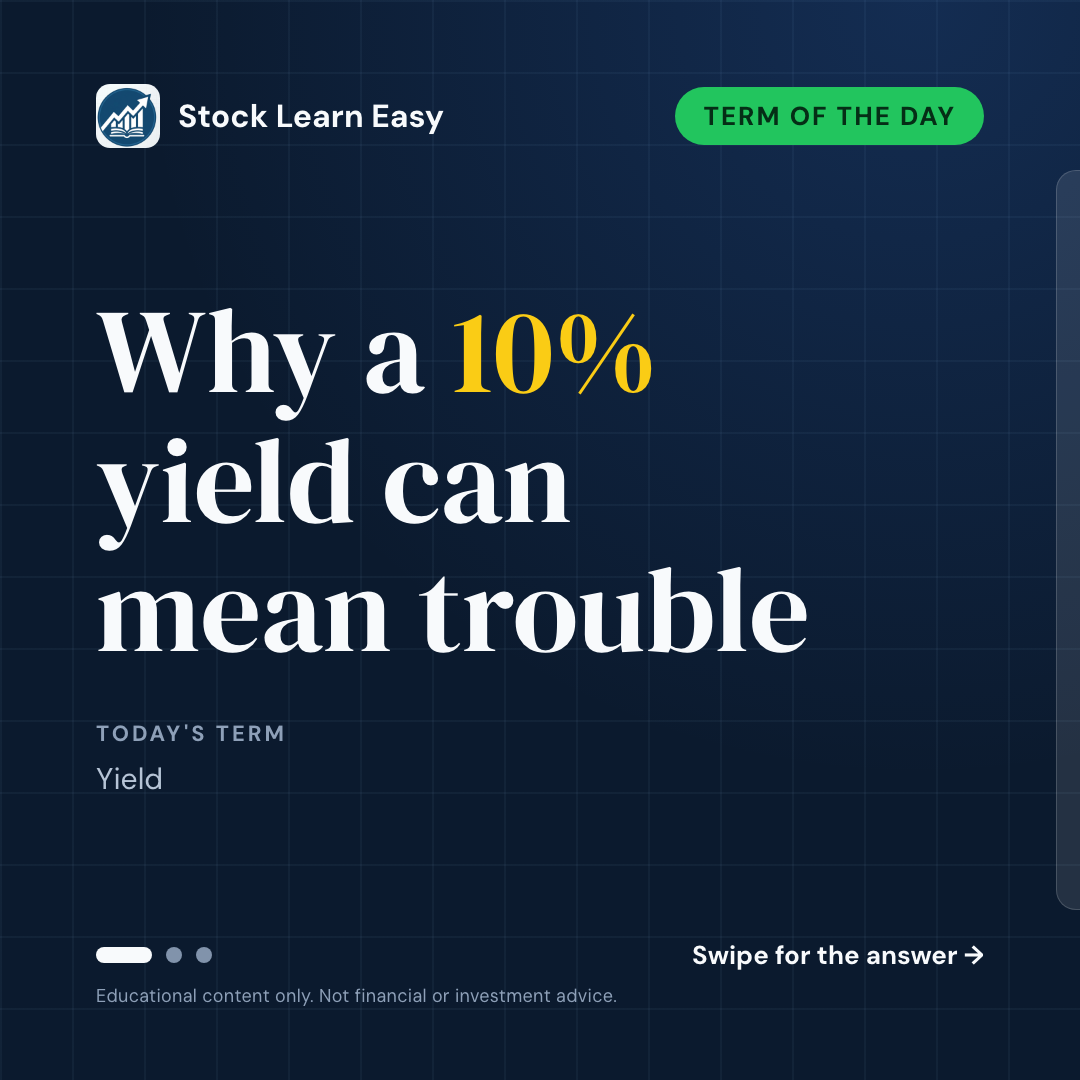
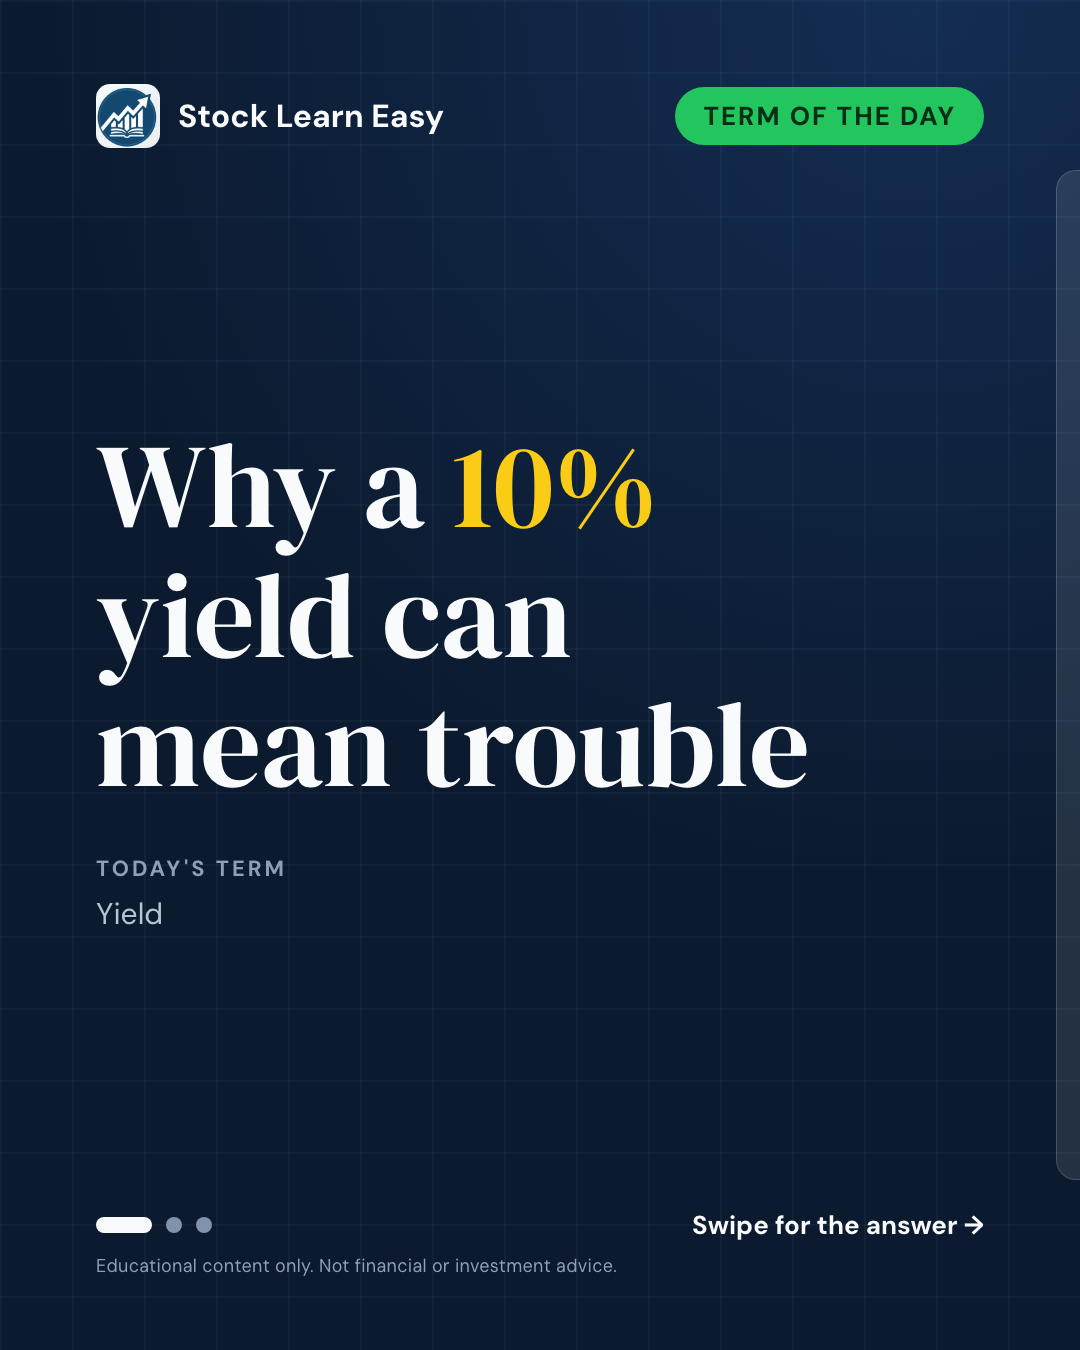
Items 55, 56, 64, 65: grid audit; reels get a hook cover and no black first frame; carousels 4:5
The first grid audit showed every news reel as a black tile (no cover set, so
Instagram took frame 0, which the fade-in made black) and every square carousel
missing its hook's first letter in the 3:4 grid crop. Queue rebuilt.

diff --git a/generate.py b/generate.py
@@ -5,7 +5,7 @@ Stock Learn Easy - Instagram post generator.
 Pulls live market news across a few categories (IPOs, big movers, macro
 news, plus an evergreen "term of the day"), writes a beginner-friendly
 English caption (Stock Learn Easy's voice, fixed disclaimer every time),
-and renders a 1080x1080 carousel via headless Chrome: hook, then a real
+and renders a 1080x1350 carousel via headless Chrome: hook, then a real
 price chart when the story has one to show, then the concept, then the
 takeaway. Tops up the `scheduled/` queue to TARGET_QUEUE_DEPTH future
 slots (2/day), rotating through categories and skipping headlines/terms
@@ -839,7 +839,13 @@ def is_reel_slot(slot):
 # where the full lesson is. Position in the carousel is a row of dots rather
 # than "2/4", and the disclaimer sits on every card.
 
-CARD_SIZE = 1080
+# 4:5 portrait since 16.10.2026, was 1080 square. The profile grid shows every
+# post as a 3:4 tile, so a square card lost 135px off each side there and the
+# first letter of every left-aligned hook went with it ("tock Split"). A 4:5
+# card loses 34px, all of it inside the side padding, and takes a quarter more
+# of the screen in the feed.
+CARD_SIZE = 1080          # width
+CARD_HEIGHT = 1350
 CARD_PADDING = "84px 96px 72px 96px"
 
 
@@ -927,7 +933,7 @@ def render_slide_html(kind, position, total, category, when_utc, copy,
         # Flat ground: the grid and the glow are part of the brand frame too.
         flat = '<style>body { background-image:none; }</style>'
         peek = design.PEEK_HTML if total > 1 else ''
-        return design.page(CARD_SIZE, CARD_SIZE, CARD_PADDING, f'{flat}{main}{foot}{peek}')
+        return design.page(CARD_SIZE, CARD_HEIGHT, CARD_PADDING, f'{flat}{main}{foot}{peek}')
 
     if kind == "hook":
         source = term[0] if category == "term" else news["title"]
@@ -1017,7 +1023,7 @@ def render_slide_html(kind, position, total, category, when_utc, copy,
         extra = design.PEEK_HTML
     elif position == total and total > 1:
         extra = design.END_CSS
-    return design.page(CARD_SIZE, CARD_SIZE, CARD_PADDING,
+    return design.page(CARD_SIZE, CARD_HEIGHT, CARD_PADDING,
                        f'{head}{main}{foot}{extra}')
 
 # Item 43. Slide one is mostly seen as a thumbnail about 150px wide, so the
@@ -1038,7 +1044,7 @@ def hook_thumb_px(html_path: Path):
     html_path = html_path.resolve()
     out = subprocess.run(
         [CHROME, "--headless", "--disable-gpu", "--virtual-time-budget=5000",
-         "--window-size=1080,1080", "--dump-dom", f"file://{html_path}"],
+         f"--window-size={CARD_SIZE},{CARD_HEIGHT}", "--dump-dom", f"file://{html_path}"],
         capture_output=True, text=True, timeout=30,
     ).stdout
     m = _FINAL_PX.search(out)
@@ -1106,7 +1112,7 @@ def render_png(html_path: Path, png_path: Path):
         # how the old cards ended up in Helvetica.
         [CHROME, "--headless", "--disable-gpu", "--hide-scrollbars",
          "--virtual-time-budget=5000",
-         f"--screenshot={png_path}", "--window-size=1080,1080",
+         f"--screenshot={png_path}", f"--window-size={CARD_SIZE},{CARD_HEIGHT}",
          f"file://{html_path}"],
         check=True, capture_output=True, timeout=30,
     )

diff --git a/grid_audit.py b/grid_audit.py
@@ -1,0 +1,58 @@
+#!/usr/bin/env python3
+"""Item 55: the profile grid as a visitor sees it.
+
+Pulls the last 12 posts from the Graph API and lays out their thumbnails
+cropped to 3:4, the shape the profile grid uses for every tile. The first run
+(16.10.2026) found every news reel sitting in the grid as a black square and
+every square carousel missing the first letter of its hook. Neither shows up
+when you look at the posts one at a time.
+
+    python grid_audit.py [out.jpg]
+"""
+import io
+import json
+import subprocess
+import sys
+import urllib.request
+
+from PIL import Image
+
+GRAPH = "https://graph.instagram.com/v21.0"
+TILE_W, TILE_H, GAP = 300, 400, 4
+
+
+def keychain(service):
+    return subprocess.run(
+        ["security", "find-generic-password", "-a", "stocklearneasy", "-s", service, "-w"],
+        capture_output=True, text=True).stdout.strip()
+
+
+def tile(im):
+    w, h = im.size
+    if w / h > 3 / 4:
+        cw = int(h * 3 / 4)
+        im = im.crop(((w - cw) // 2, 0, (w - cw) // 2 + cw, h))
+    else:
+        ch = int(w * 4 / 3)
+        im = im.crop((0, (h - ch) // 2, w, (h - ch) // 2 + ch))
+    return im.resize((TILE_W, TILE_H))
+
+
+def main():
+    out = sys.argv[1] if len(sys.argv) > 1 else "grid-audit.jpg"
+    token, user = keychain("stocklearneasy-ig-token"), keychain("stocklearneasy-ig-user-id")
+    media = json.load(urllib.request.urlopen(
+        f"{GRAPH}/{user}/media?fields=media_product_type,thumbnail_url,media_url,timestamp"
+        f"&limit=12&access_token={token}"))["data"]
+    grid = Image.new("RGB", (3 * TILE_W + 2 * GAP, 4 * TILE_H + 3 * GAP), "white")
+    for i, m in enumerate(media[:12]):
+        url = m.get("thumbnail_url") or m.get("media_url")
+        im = Image.open(io.BytesIO(urllib.request.urlopen(url).read())).convert("RGB")
+        grid.paste(tile(im), ((i % 3) * (TILE_W + GAP), (i // 3) * (TILE_H + GAP)))
+        print(m["timestamp"][:16], m["media_product_type"])
+    grid.save(out, quality=88)
+    print(out)
+
+
+if __name__ == "__main__":
+    main()

diff --git a/reel.py b/reel.py
@@ -276,7 +276,7 @@ def build_scene_clip(png: Path, audio: Path | None, seconds: float, out: Path,
     else:
         zexpr = f"'max(1.055-0.055*on/{frames},1)'"
 
-    # Fades only at the very start and very end of the reel. Fading in on
+    # Fades only at the very end of the reel (see build_reel). Fading in on
     # every scene put a full black frame on each cut, which in a 30-second
     # video reads as a glitch rather than as an edit.
     fades = ""
@@ -361,10 +361,20 @@ def build_reel(out_dir: Path, category, copy, when_utc,
                 if seconds < 1.0:
                     break
 
+            # The hook scene doubles as the cover. Before 16.10.2026 news reels
+            # had none, so Instagram took frame 0, which the fade-in made pure
+            # black: every news reel sat in the profile grid as a black tile.
+            if index == 0:
+                subprocess.run(
+                    ["ffmpeg", "-y", "-loglevel", "error", "-i", str(png),
+                     "-q:v", "2", str(out_dir / "cover.jpg")],
+                    check=True, capture_output=True, timeout=60)
+
+            # No fade-in on the first scene either: frame 0 is what a scrolling
+            # viewer sees, and a black frame is a reason to keep scrolling.
             clip = work / f"clip_{index}.mp4"
             build_scene_clip(png, audio, seconds, clip,
                              push_in=(index % 2 == 0),
-                             fade_in=(index == 0),
                              fade_out=(index == len(scenes) - 1))
             clips.append(clip)
             total += seconds
@@ -382,6 +392,7 @@ def build_reel(out_dir: Path, category, copy, when_utc,
             "scenes": [s["kind"] for s in scenes][:len(clips)],
             "voice": VOICE if VOICE_ENABLED else None,
             "size_bytes": out_path.stat().st_size,
+            "cover": "cover.jpg",
         }, ensure_ascii=False, indent=2),
         encoding="utf-8",
     )

diff --git a/card_check.py b/card_check.py
@@ -14,8 +14,8 @@ Two independent checks, either one is enough to catch a bad render:
 """
 from PIL import Image
 
-EXPECTED_SIZE = (1080, 1080)
-CORNERS = [(5, 5), (1075, 5), (5, 1075), (1075, 1075)]
+EXPECTED_SIZE = (1080, 1350)  # 4:5 since 16.10.2026
+CORNERS = [(5, 5), (1075, 5), (5, 1345), (1075, 1345)]
 MAX_CORNER_BRIGHTNESS = 200
 
 

diff --git a/metrics/winners.md b/metrics/winners.md
@@ -1,14 +1,14 @@
 # Above-median posts (backlog item 19)
 
-Generated by winners.py from the 2026-10-15..2026-10-15 snapshots. 54 posts, median reach 2.
+Generated by winners.py from the 2026-10-16..2026-10-16 snapshots. 56 posts, median reach 2.
 
 Copy the structure, never the topic. A shape with fewer than 10 posts is an anecdote (item 86).
 
 ## Median reach by shape
 
 - episode reel: median 16.5 over 4 posts (too few to conclude)
-- news reel: median 4 over 14 posts
-- carousel: median 2 over 36 posts
+- news reel: median 3 over 15 posts
+- carousel: median 2 over 37 posts
 
 ## Above the median
 
@@ -26,3 +26,4 @@ Copy the structure, never the topic. A shape with fewer than 10 posts is an anec
 - 2026-09-22T1200 reach 3, shares 0, saves 0: carousel, movers. "📉📈 Market Movers"
 - 2026-09-28T1800 reach 3, shares 0, saves 0: carousel, macro. "🏦 Macro Watch"
 - 2026-10-01T1200 reach 3, shares 0, saves 0: news reel, 29.07s, term. "📘 Term of the Day"
+- 2026-10-15T1200 reach 3, shares 0, saves 0: news reel, 26.99s, term. "Which stock should you buy? Maybe all 500."
